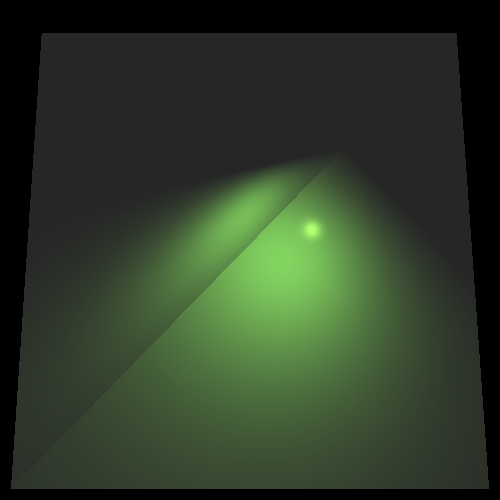
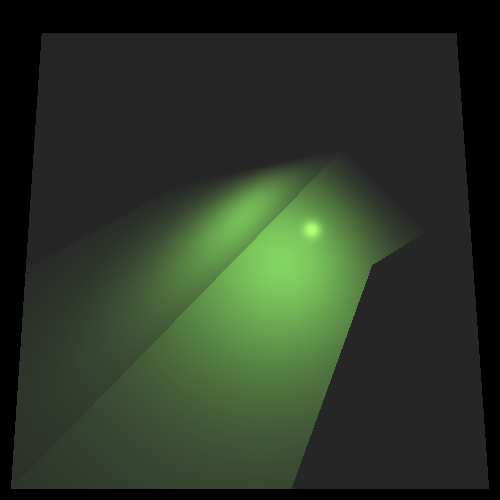
PR07 begin

Changed region(s): [[0.57, 0.48, 0.9, 0.99]]

diff --git a/src/renderer/RayTracerBasic.java b/src/renderer/RayTracerBasic.java
@@ -5,12 +5,19 @@ import primitives.*;
 import scene.Scene;
 import geometries.Intersectable.GeoPoint;
 
+import java.util.List;
+
 import static primitives.Util.alignZero;
 
 /**
  * Class RayTracerBasic inherit from the abstract class RayTracerBse
  */
 public class RayTracerBasic extends RayTracerBase{
+
+    /**
+     * Field fixed for ray head offset size for shading rays
+     */
+    private static final double DELTA = 0.1;
 
     /**
      * Constructor of RayTracerBasic that use the constructor
@@ -55,33 +62,35 @@ public class RayTracerBasic extends RayTracerBase{
 
     /**
      * Helper function for the color from the theory presentation
-     * @param point GeoPoint
+     * @param geoPoint GeoPoint
      * @param ray Ray
      * @return Color
      */
-    private Color calcLocalEffects(GeoPoint point, Ray ray) {
+    private Color calcLocalEffects(GeoPoint geoPoint, Ray ray) {
 
         Vector v = ray.getDir();
-        Vector n = point.geometry.getNormal(point.point);
+        Vector n = geoPoint.geometry.getNormal(geoPoint.point);
         double nv = alignZero(n.dotProduct(v));
 
         if (nv == 0)
             return Color.BLACK;
 
-        double nShininess = point.geometry.getMaterial().nShininess;
-        Double3 kd = point.geometry.getMaterial().kD;
-        Double3 ks = point.geometry.getMaterial().kS;
+        double nShininess = geoPoint.geometry.getMaterial().nShininess;
+        Double3 kd = geoPoint.geometry.getMaterial().kD;
+        Double3 ks = geoPoint.geometry.getMaterial().kS;
         Color color = Color.BLACK;
 
         for (LightSource lightSource : scene.lights) {
-            Vector l = lightSource.getL(point.point);
+            Vector l = lightSource.getL(geoPoint.point);
             double nl = alignZero(n.dotProduct(l));
 
             // sign(nl) == sing(nv)
             if (nl * nv > 0) {
-                Color lightIntensity = lightSource.getIntensity(point.point);
-                color = color.add(calcDiffusive(kd, l, n, lightIntensity),
-                        calcSpecular(ks, l, n, v, nShininess, lightIntensity));
+                if (unshaded(geoPoint, lightSource, l, n, nl)) {
+                    Color lightIntensity = lightSource.getIntensity(geoPoint.point);
+                    color = color.add(calcDiffusive(kd, l, n, lightIntensity),
+                            calcSpecular(ks, l, n, v, nShininess, lightIntensity));
+                }
             }
         }
 
@@ -134,5 +143,35 @@ public class RayTracerBasic extends RayTracerBase{
         }
 
         return lightIntensity.scale(ks.scale(Math.pow(Math.max(0, vR), nShininess)));
+    }
+
+    /**
+     * A method of checking non-shading between a point and the light source
+     * @param gp GeoPoint
+     * @param light LightSource
+     * @param l Vector
+     * @param n Vector
+     * @param nl double
+     * @return Boolean value
+     */
+    private boolean unshaded(GeoPoint gp, LightSource light, Vector l, Vector n, double nl) {
+
+        // from point to light source
+        Vector lightDirection = l.scale(-1);
+        Vector deltaVector = n.scale(nl < 0 ? DELTA : -DELTA);
+        Point point = gp.point.add(deltaVector);
+        Ray lightRay = new Ray(point, lightDirection);
+        // This list contains the shadow ray intersections
+        List<GeoPoint> intersections = scene.geometries.findGeoIntsersections(lightRay);
+        if (intersections.size() == 0)
+            return true;
+        for (GeoPoint geoPoint: intersections) {
+            //if( geoPoint.point.distance(gp.point) < light.getDistance(gp.point))
+            // gp.point is the original intersection point
+            if(alignZero(geoPoint.point.distance(gp.point) -
+                    light.getDistance(geoPoint.point)) < 0)
+                return false;
+        }
+        return false;
     }
 }

diff --git a/src/geometries/Plane.java b/src/geometries/Plane.java
@@ -83,39 +83,75 @@ public class Plane extends Geometry {
     @Override
     public List<GeoPoint> findGeoIntsersectionsHelper(Ray ray) {
 
-        Vector p0Q;
+        //Vector p0Q;
+//
+        //// q is a point from the plane and getP0 returns the origin of the ray
+        //try {
+        //    p0Q = q0.subtract(ray.getP0());
+        //}
+        //// No intersection
+        //catch (IllegalArgumentException e) {
+        //    return null;
+        //}
+//
+        // /*
+        //    The value of our variable t that we search for is the result of this formula:(p0−l0)⋅n/l⋅n
+        //    p0 is the point of our plane, n is the normal of our plane,
+        //    l0 is the origin point of the ray and l is the vector director of the ray.
+        //    So this value helps us to determine the intersection or not.
+        // */
+        //double check = normal.dotProduct(ray.getDir());
+//
+        //// Ray is parallel to the plane
+        //if (isZero(check)) {
+        //    return null;
+        //}
+//
+        //// It gives us the t to determine the coordinate of the intersection,
+        //// so the x,y,z according to the value of t
+        //double t = alignZero(normal.dotProduct(p0Q) / check);
+//
+        //if (t <= 0) {
+        //    return null;
+        //} else {
+        //    // We use the function getPoint of Ray class
+        //    return List.of((new GeoPoint(this,ray.getPoint(t))));
+        //}
 
-        // q is a point from the plane and getP0 returns the origin of the ray
-        try {
-            p0Q = q0.subtract(ray.getP0());
-        }
-        // No intersection
-        catch (IllegalArgumentException e) {
+        Point P0 = ray.getP0();
+        Vector v = ray.getDir();
+
+        Vector n = normal;
+        //denominator
+        double nv = alignZero(n.dotProduct(v));
+
+        // ray is lying in the plane axis
+        if (isZero(nv)) {
             return null;
         }
 
-         /*
-            The value of our variable t that we search for is the result of this formula:(p0−l0)⋅n/l⋅n
-            p0 is the point of our plane, n is the normal of our plane,
-            l0 is the origin point of the ray and l is the vector director of the ray.
-            So this value helps us to determine the intersection or not.
-         */
-        double check = normal.dotProduct(ray.getDir());
-
-        // Ray is parallel to the plane
-        if (isZero(check)) {
+        //ray cannot start from the plane
+        if (q0.equals(P0)) {
             return null;
         }
 
-        // It gives us the t to determine the coordinate of the intersection,
-        // so the x,y,z according to the value of t
-        double t = alignZero(normal.dotProduct(p0Q) / check);
+        Vector P0_Q0 = q0.subtract(P0);
 
-        if (t <= 0) {
+        //numerator
+        double nP0Q0 = alignZero(n.dotProduct(P0_Q0));
+
+        // ray parallel to the plane
+        if (isZero(nP0Q0)) {
             return null;
-        } else {
-            // We use the function getPoint of Ray class
-            return List.of((new GeoPoint(this,ray.getPoint(t))));
         }
+
+        double t = alignZero(nP0Q0 / nv);
+
+        if(t<=0)
+            return null;
+
+        Point point = ray.getPoint(t);
+
+        return List.of(new GeoPoint(this, point));
     }
 }

diff --git a/src/geometries/Triangle.java b/src/geometries/Triangle.java
@@ -50,9 +50,14 @@ public class Triangle extends Polygon {
         if ((s1 > 0 && s2 > 0 && s3 > 0) || (s1 < 0 && s2 < 0 && s3 < 0)) {
             // I used stream because if I return just plane.findGeoIntersections() it doesn't work
             // for the multicolor test and the color of triangles doesn't appear
+
+            if(plane.findGeoIntsersections(ray) == null)
+                return null;
+            //return plane.findGeoIntsersections(ray);
             return (plane.findIntsersections(ray)).stream()
                     .map(gp->new GeoPoint(this,gp))
                     .toList();
+
         }
 
         return null;

diff --git a/src/lighting/PointLight.java b/src/lighting/PointLight.java
@@ -73,6 +73,16 @@ public class PointLight extends Light implements LightSource{
     }
 
     /**
+     * Implementation of the function getDistance
+     * @param point Point
+     * @return the distance between pointLight and point
+     */
+    @Override
+    public double getDistance(Point point) {
+        return this.position.distance(point);
+    }
+
+    /**
      * Setter for coefficient kC
      * @param kC double
      */

diff --git a/src/lighting/DirectionalLight.java b/src/lighting/DirectionalLight.java
@@ -41,4 +41,14 @@ public class DirectionalLight extends Light implements LightSource {
     public Vector getL(Point p) {
         return direction;
     }
+
+    /**
+     * Implementation of the function getDistance
+     * @param point Point
+     * @return Double.POSITIVE_INFINITY
+     */
+    @Override
+    public double getDistance(Point point) {
+        return Double.POSITIVE_INFINITY;
+    }
 }

diff --git a/src/lighting/LightSource.java b/src/lighting/LightSource.java
@@ -24,4 +24,10 @@ public interface LightSource {
      */
     public Vector getL(Point p);
 
+    /**
+     * Definition of the function getDistance
+     * @param point Point
+     * @return distance
+     */
+    double getDistance(Point point);
 }
